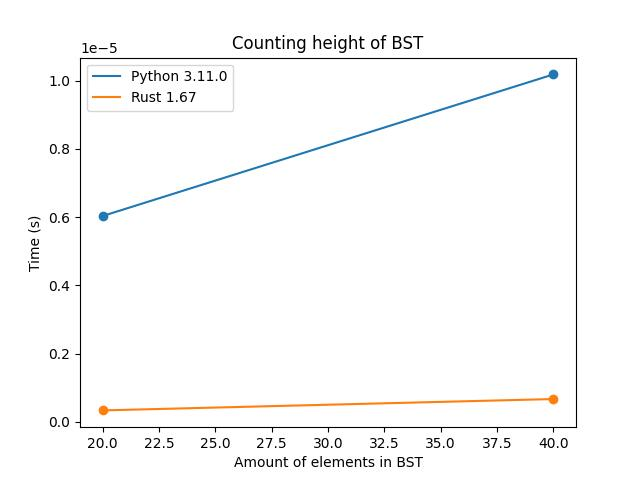
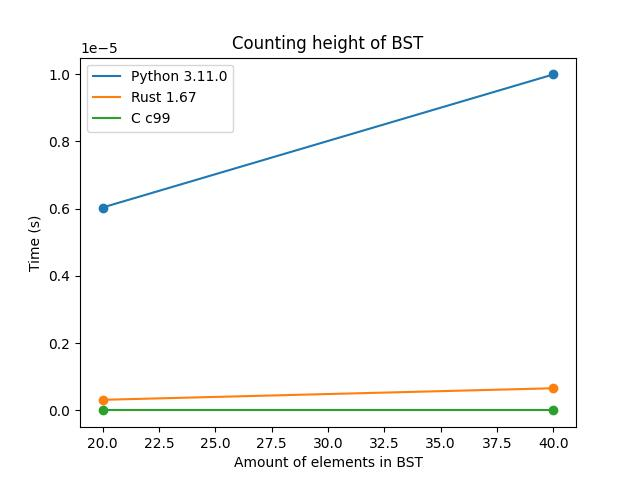
Added C

diff --git a/BST/c/main.c b/BST/c/main.c
@@ -3,10 +3,9 @@
 #include <time.h>
 #include "tree.h"
 #include "node.h"
-#define MAX_SIZE 10000000
 
-int* read_numbers_from_file(char* filename, int* size) {
-    int* numbers = (int*)malloc(MAX_SIZE * sizeof(int)); // przydzielenie pamięci dla tablicy
+int* read_numbers_from_file(char* filename, int amount) {
+    int* numbers = (int*)malloc(amount * sizeof(int)); // przydzielenie pamięci dla tablicy
     int i = 0;
 
     FILE* input_file = fopen(filename, "r"); // otwarcie pliku tekstowego
@@ -16,13 +15,11 @@ int* read_numbers_from_file(char* filename, int* size) {
         exit(1);
     }
 
-    while (fscanf(input_file, "%d", &numbers[i]) != EOF && i < MAX_SIZE) { // odczytaj liczby z pliku i zapisz w tablicy
+    while (fscanf(input_file, "%d", &numbers[i]) != EOF && i < amount) { // odczytaj liczby z pliku i zapisz w tablicy
         i++;
     }
 
     fclose(input_file); // zamknięcie pliku
-
-    *size = i; // ustawienie liczby elementów w tablicy
 
     return numbers;
 }
@@ -36,58 +33,47 @@ double get_avg(int* numbers){
     return avg;
 }
 
-int main() {
-    int add_results[3];
-    int check_results[3];
-    int len_results[3];
-    int height_results[3];
+int main(int argc, char *argv[]) {
+
+    int amount = atoi(argv[1]); 
+   
     
-    int add_numbers_size;
-    int* add_numbers = read_numbers_from_file("/datasets/add.txt", &add_numbers_size);
-    int check_numbers_size;
-    int* check_numbers = read_numbers_from_file("/datasets/check.txt", &check_numbers_size);
+    int* add_numbers = read_numbers_from_file("/datasets/add.txt", amount);
+    int* check_numbers = read_numbers_from_file("/datasets/check.txt", amount);
     
     clock_t start, end;
-    double cpu_time_used;
 
-    for(int i=0;i<3;i++){
-        struct Tree* tree = new_tree();
+    struct Tree* tree = new_tree();
 
-        // Add elements to tree
-        start = clock();
-        for(int j=0;j<add_numbers_size;j++){
-            tree_add(tree, add_numbers[j]);
-        }
-        end = clock();
-        add_results[i] = ((double) (end - start)) / CLOCKS_PER_SEC;
-
-        // Len elements
-        start = clock();
-        int length = tree_length(tree);
-        end = clock();
-        len_results[i] = ((double) (end - start)) / CLOCKS_PER_SEC;
-        printf("Length=%d\n", length);
-
-        // height elements
-        start = clock();
-        int height = tree_height(tree);
-        end = clock();
-        height_results[i] = ((double) (end - start)) / CLOCKS_PER_SEC;
-        printf("Height=%d\n", height);
-
-        // Check elements
-        start = clock();
-        for(int j=0;j<check_numbers_size;j++){
-            tree_contain(tree, check_numbers[j]);
-        }
-        end = clock();
-        check_results[i] = ((double) (end - start)) / CLOCKS_PER_SEC;
+    // Add elements to tree
+    start = clock();
+    for(int j=0;j<amount;j++){
+        tree_add(tree, add_numbers[j]);
     }
+    end = clock();
+    printf("ADD_TEST: %f\n", ((double) (end - start)) / CLOCKS_PER_SEC);
 
-    printf("Average add: %.4f\n", get_avg(add_results));
-    printf("Average check: %.4f\n", get_avg(check_results));
-    printf("Average len: %.4f\n", get_avg(len_results));
-    printf("Average height: %.4f\n", get_avg(height_results));
+    // Check elements
+    start = clock();
+    for(int j=0;j<amount;j++){
+        tree_contain(tree, check_numbers[j]);
+    }
+    end = clock();
+    printf("CHECK_TEST: %f\n", ((double) (end - start)) / CLOCKS_PER_SEC);
+
+    // Len elements
+    start = clock();
+    for(int i=0;i<10;i++) tree_length(tree);
+    end = clock();
+    printf("LEN_TEST: %f\n", ((double) (end - start)) / CLOCKS_PER_SEC / 10);
+
+    // height elements
+    start = clock();
+    for(int i=0;i<10;i++) tree_height(tree);
+    end = clock();
+    printf("HEIGHT_TEST: %f\n", ((double) (end - start)) / CLOCKS_PER_SEC / 10);
+
+    printf("VALIDATION:%d:%d\n", tree_length(tree), tree_height(tree));
 
     return 0;
 }

diff --git a/bst_runner.py b/bst_runner.py
@@ -7,11 +7,13 @@ from logger import logger
 class BSTCollection:
     PYTHON = BST("Python 3.11.0", Path("BST/python3/run.sh"))
     RUST = BST("Rust 1.67", Path("BST/rust/run.sh"))
+    C = BST("C c99", Path("BST/c/run.sh"))
+
 
 
     @classmethod
     def get_all(cls):
-        return [cls.PYTHON, cls.RUST]
+        return [cls.PYTHON, cls.RUST, cls.C]
 
 
 def run(bst: BST, amount:int) -> Result:
